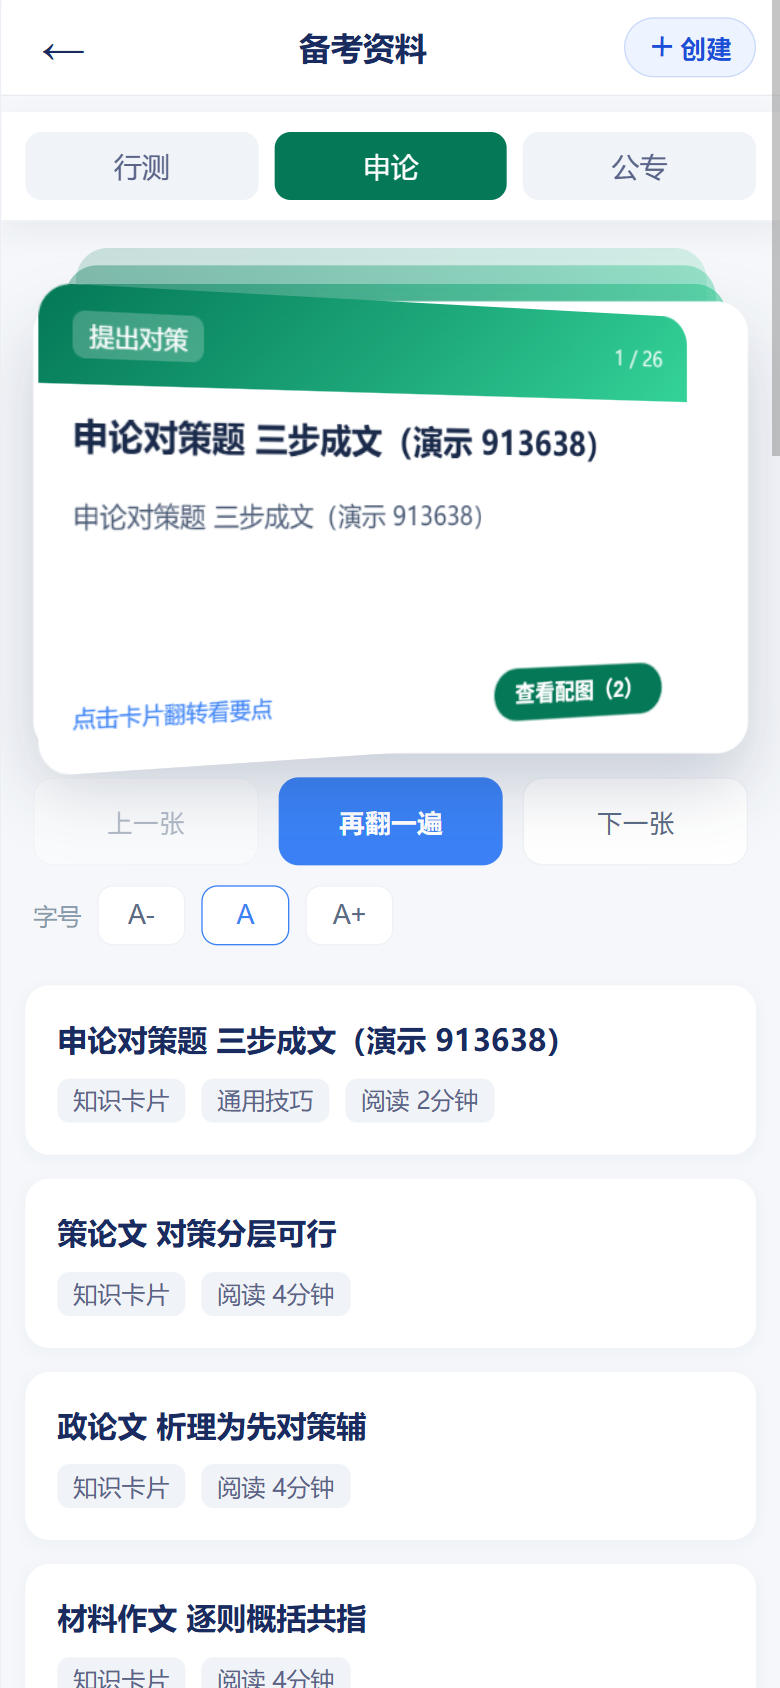
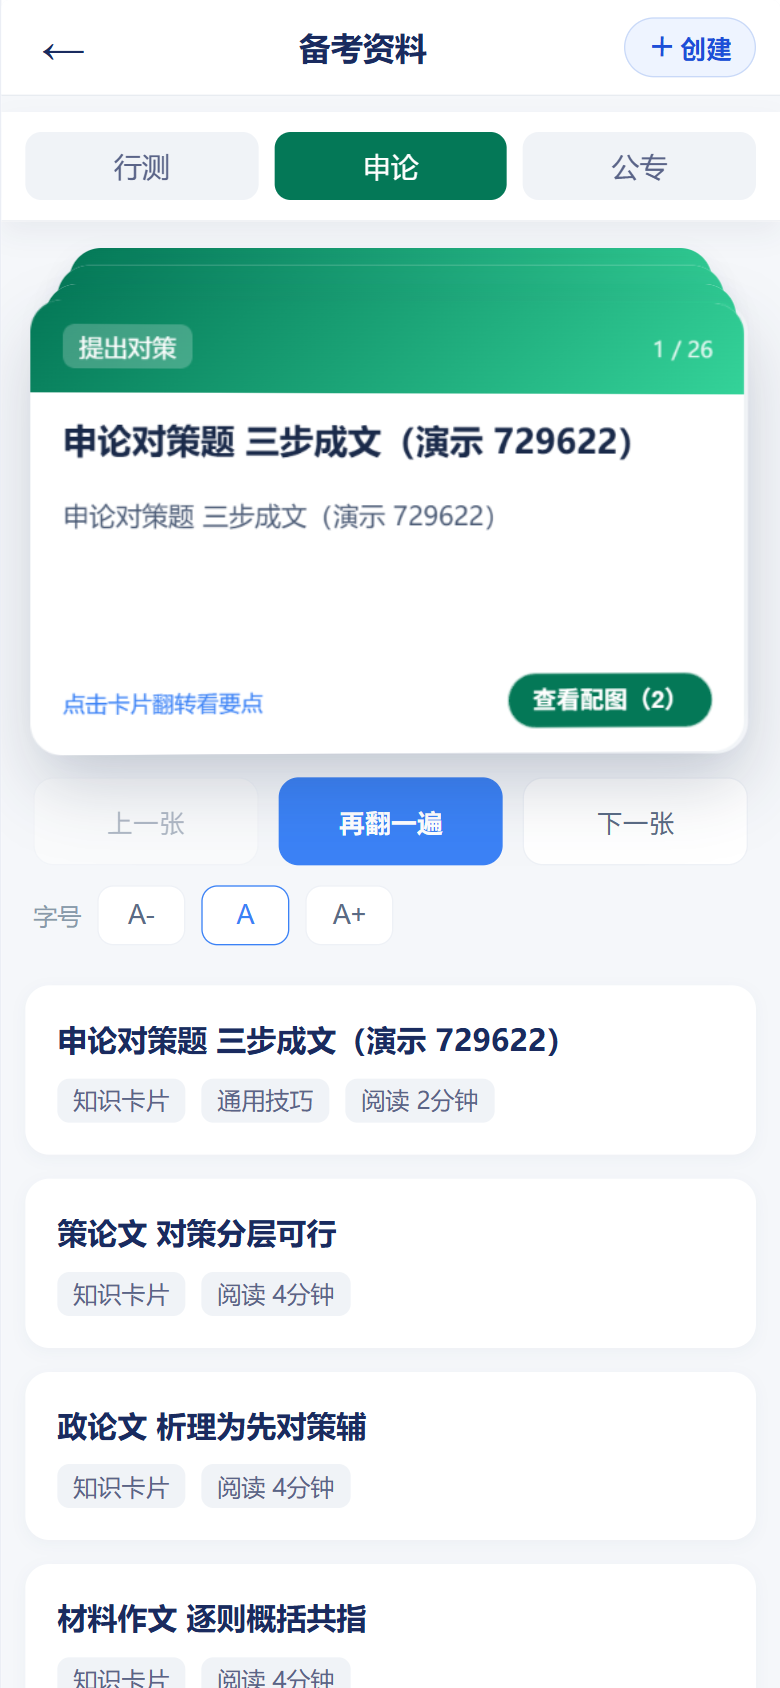
fix(material): 卡片栈改为「后置真卡片 + 容器透明」——彻底去掉翻转/翻页白框，翻转时可见后卡正文

diff --git a/src/views/student/mobile/mobile_materials.vue b/src/views/student/mobile/mobile_materials.vue
@@ -20,15 +20,25 @@
       </div>
     </div>
 
-      <!-- 卡片栈：背景「纸片」只暗示还有多少张（不再画整张白卡），当前卡单独做 3D 翻转 -->
+      <!-- 卡片栈：后面是「真卡片」（翻转时能看到它的文字），顶层卡单独做 3D 翻转 -->
       <section v-if="cardItems.length" class="stack-wrap" :style="stackStyle">
         <div class="stack" :class="{ 'is-flipped': flipped, 'is-leaving': phase === 'leaving', 'is-entering': phase === 'entering' }">
-          <span
-            v-for="n in SLAB_COUNT"
-            :key="'slab-' + n"
-            class="stack-slab"
-            :style="slabStyle(n)"
-          ></span>
+          <!-- 后面的卡：真内容，只露出一条渐变头；容器透明，不会出现白框 -->
+          <div
+            v-for="(c, i) in behindCards"
+            :key="c.id"
+            class="stack-card behind"
+            :style="behindStyle(i)"
+          >
+            <div class="card-face front">
+              <div class="card-head">
+                <span class="tag">{{ c.category || '资料卡' }}</span>
+                <span class="idx">{{ cardIndex + i + 2 }} / {{ cardItems.length }}</span>
+              </div>
+              <h3 class="card-title">{{ c.title }}</h3>
+              <p class="card-text">{{ c.card_front || c.title }}</p>
+            </div>
+          </div>
 
           <div v-if="currentCard" class="stack-card lv0" @click="flip()">
             <div class="card-inner">
@@ -267,8 +277,8 @@ const openDetail = async (m: any) => {
   await loadDetail(m.id);
 };
 
-// ===== 卡片栈：背景纸片 + 单卡 3D 翻转 + 切换 + 字号 =====
-const SLAB_COUNT = 3;
+// ===== 卡片栈：后面卡（真内容）+ 顶层卡 3D 翻转 + 切换 + 字号 =====
+const BEHIND_MAX = 3;
 const cardIndex = ref(0);
 const flipped = ref(false);
 const fontScale = ref(1);
@@ -277,18 +287,26 @@ const cardItems = computed(() =>
   (materials.value as any[]).filter((m) => m.type === 'card' && m.card_front)
 );
 const currentCard = computed(() => cardItems.value[cardIndex.value] || null);
+/** 后面叠着的卡片（真内容，翻转时能看见它的文字） */
+const behindCards = computed(() =>
+  cardItems.value.slice(cardIndex.value + 1, cardIndex.value + 1 + BEHIND_MAX)
+);
 /** 当前卡的全部配图（封面 + 正文附图），用于卡片上的「查看配图」 */
 const currentImages = computed(() => collectCardImages(currentCard.value as any));
 const actLabel = computed(() =>
   currentImages.value.length ? `查看配图（${currentImages.value.length}）` : '查看详情'
 );
 
-/** 层叠纸片：越靠后越窄、越淡，翻页时整体淡出（不会再留白框） */
-const slabStyle = (n: number) => ({
-  top: `${30 - n * 9}px`,
-  left: `${6 + n * 5}px`,
-  right: `${6 + n * 5}px`,
-  opacity: String(0.78 - n * 0.2)
+/**
+ * 后面卡片的定位：只往上露一条（-9px/层）并左右各内缩 6px/层，
+ * 这样它的白色卡身完全被顶层卡盖住 —— 不会再出现「白框」，
+ * 但翻转时顶层卡转开，后面的卡片正文就能看见。
+ */
+const behindStyle = (i: number) => ({
+  top: `${30 - (i + 1) * 9}px`,
+  left: `${(i + 1) * 6}px`,
+  right: `${(i + 1) * 6}px`,
+  zIndex: 8 - i
 });
 
 // 全图查看器（复用电脑端的同一个组件）
@@ -592,18 +610,9 @@ onMounted(fetchMaterials);
   opacity: 0.85;
 }
 
-/* ===== 卡片栈：背景纸片 + 单卡 3D 翻转 ===== */
+/* ===== 卡片栈：后面真卡片 + 顶层卡 3D 翻转 ===== */
 .stack-wrap { padding: 14px 16px 4px; }
-.stack { position: relative; height: 256px; perspective: 900px; perspective-origin: 50% 42%; }
-/* 背景纸片：只露一条渐变边，表示「后面还有几张」，不画整张白卡 */
-.stack-slab {
-  position: absolute;
-  height: 54px;
-  border-radius: 16px 16px 0 0;
-  background: linear-gradient(135deg, var(--c1), var(--c2));
-  pointer-events: none;
-  transition: opacity 0.22s ease, top 0.3s ease, left 0.3s ease, right 0.3s ease;
-}
+.stack { position: relative; height: 256px; }
 .stack-card {
   position: absolute;
   left: 0;
@@ -611,16 +620,23 @@ onMounted(fetchMaterials);
   top: 30px;
   height: 226px;
   border-radius: 16px;
-  background: #fff;
+  /* 容器必须透明：白色由正/反两面提供，否则翻转时会露出这块白底 */
+  background: transparent;
   border: none;
-  box-shadow: 0 10px 24px rgba(26, 42, 74, 0.14);
   transition: transform 0.35s ease, box-shadow 0.35s ease, opacity 0.22s ease;
-  z-index: 2;
+  z-index: 1;
   /* 3D 透视必须挂在「旋转元素的父级」上：card-inner 是 .stack-card 的子元素 */
   perspective: 900px;
   perspective-origin: 50% 45%;
 }
-.stack-card.lv0 { cursor: pointer; }
+/* 后面的卡：不投影、不可点，只作为「翻过去能看到的那张」 */
+.stack-card.behind {
+  z-index: 1;
+  pointer-events: none;
+  box-shadow: none;
+}
+.stack-card.behind .card-face { box-shadow: 0 6px 14px rgba(26, 42, 74, 0.08); }
+.stack-card.lv0 { cursor: pointer; box-shadow: 0 10px 24px rgba(26, 42, 74, 0.14); z-index: 10; }
 .card-inner {
   position: relative;
   width: 100%;
@@ -695,8 +711,10 @@ onMounted(fetchMaterials);
 .stack-wrap { padding: 18px 16px 6px; }
 .stack { z-index: 1; }
 
-/* 修复 2：卡片头部改成科目渐变条，正文区收紧留白 */
-.stack-card { background: #fff; }
+/* 修复 2：卡片头部改成科目渐变条，正文区收紧留白
+   注意：.stack-card 容器必须保持透明（白色由 .card-face 提供），
+   否则翻转时会在原地露出一块白底 —— 这正是之前「白框」的来源。 */
+.stack-card { background: transparent; }
 .card-face { padding: 0; }
 .card-face .card-head {
   margin: 0;
@@ -744,13 +762,8 @@ onMounted(fetchMaterials);
   background: var(--c1);
 }
 
-/* 修复 3：翻页动效（走出 / 进入）——纸片同时淡出，不留白框 */
+/* 修复 3：翻页动效（走出 / 进入）——后面是真卡片，飞走时直接看到它的正文 */
 .stack-card.lv0 { transition: transform 0.2s ease, opacity 0.2s ease; }
-.stack.is-leaving .stack-slab,
-.stack.is-entering .stack-slab {
-  opacity: 0 !important;
-  transition: opacity 0.18s ease;
-}
 .stack.is-leaving .stack-card.lv0 {
   transform: translateX(-118%) rotate(-7deg);
   opacity: 0;

diff --git a/docs/plans/备考资料_四轮卡片栈与配图入口_方案与验收_v1.md b/docs/plans/备考资料_四轮卡片栈与配图入口_方案与验收_v1.md
@@ -12,39 +12,47 @@
 | 1 | 手机端「查看上传图片」的按钮移到卡片上，别让人去下面列表里找 | 配图只能在列表行的「查看详情」里打开；卡片本身没有任何入口 | 卡片正面/背面底部新增「查看配图（N）」按钮（无图时显示「查看详情」），点开直接全屏看图 |
 | 2 | 翻页时有一个白色背景框留在原地；去掉白框，去掉没翻页时的白边，翻页要更好的 3D | ①卡片栈是 **5 张完整白卡** 叠加（`lv1–lv4` 各自 `background:#fff` + `1px` 边框），顶层飞出时底层白卡原地不动 → 白框；②`perspective` 挂在 `.stack` 上，真正旋转的是孙级 `.card-inner`，透视没生效 → 翻转是「平的」 | ①背景改成 **3 片渐变纸片**（只露一条边，不画白卡），卡片去掉边框；②`perspective` 移到 `.stack-card`，背面加 `translateZ(1px)` 避免零厚度重影；③翻页动画期间纸片整体淡出 |
 
-## 2. 关键实现
+## 2. 关键实现（v2 定稿）
+
+第一版把背景换成「渐变纸片」，实测**仍有白框**：真正的白底来自 `.stack-card` 容器自身的
+`background:#fff`（旋转的是它的子元素 `.card-inner`，容器原地不动 → 翻转时露出一整块白）。
+第二版改成「后面放真卡片 + 容器透明」：
 
 ```
-.stack            纸片容器（不再承载透视）
-  .stack-slab ×3  渐变竖条：top 21/12/3px、左右各内缩 6+5n px、opacity 0.58/0.38/0.18
-  .stack-card     唯一真卡：无 border、圆角 16、阴影 0 10px 24px、perspective:900px
-    .card-inner   transform-style:preserve-3d，翻转 0.5s cubic-bezier
-      .card-face.front
-      .card-face.back  rotateY(180deg) translateZ(1px)
+.stack
+  .stack-card.behind ×3   真卡片（正面内容），只按 -9px/层 上移、6px/层 左右内缩
+                          白色卡身被顶层卡完全盖住 → 没有白框；
+                          翻转时顶层卡转开，就能看到后面卡片的正文
+  .stack-card.lv0         唯一可交互卡：background: transparent（白色由 .card-face 提供）
+    .card-inner           preserve-3d + perspective:900px（挂在 .stack-card 上）
+      .card-face.front / .back（背面 rotateY(180deg) translateZ(1px)）
 ```
 
-- 卡片底部：`.card-foot` 改为 flex，左侧「点击卡片翻转看要点」，右侧 `.card-act` 按钮。
-- 按钮点击 `@click.stop`（不触发翻转）：有图 → 打开 `ImageLightbox`（复用电脑端组件，支持缩放/切图/Esc）；
-  无图 → 回退到原有详情弹层（文章类资料仍然走列表）。
-- 翻页：`.is-leaving/.is-entering` 时 `.stack-slab { opacity: 0 }`，配合卡片 0.2s 飞出/进入。
+- 层级：`.stack-card { z-index:1 }`、后面卡 `8-i`、顶层卡 `z-index:10`（第一版曾因 `z-index` 相同导致后面的卡盖住顶层卡）。
+- 卡片底部：`.card-foot` 改 flex，左「点击卡片翻转看要点」右 `.card-act` 按钮；
+  按钮 `@click.stop` 不触发翻转，有图开全图、无图回退详情弹层。
+- 翻页：`.is-leaving/.is-entering` 只动顶层卡，后面的真卡片保持不动 → 飞走时直接看到下一张的正文。
 
 ## 3. 验收
 
-`scripts/verify/mobile_card_stack_shots.mjs`（手机视口 390×844，真实登录态）**9/9 断言通过**：
+`scripts/verify/mobile_card_stack_shots.mjs`（手机视口 390×844 + 真实登录态 + 触摸模拟）**12/12 断言通过**：
 
 | 断言 | 实测值 |
 |---|---|
 | 栈顶是要看的那张卡 | 演示卡标题命中 |
-| 背景只剩 3 片渐变纸片 | `slabs=3`，`background-image=linear-gradient(...)` |
+| 后面叠着 3 张**真卡片**（带正文） | `策论文 对策分层可行` |
+| 顶层卡容器透明（翻转不会露白底） | `rgba(0, 0, 0, 0)` |
+| 后面卡片比顶层窄（白身被遮住，无白框） | behind=345 < top=357 px |
 | 卡片无白边 | `border-top-width = 0px` |
-| 卡片上有「查看配图」 | 按钮文案 `查看配图（2）` |
-| 翻转进入 3D | `matrix3d(-1, 0, 0, 0, …)` |
-| 卡片按钮直接开全图 | 计数 `1 / 2` |
-| 翻页期间纸片淡出 | `opacity 0.086`、`is-leaving=true` |
+| 卡片上有「查看配图」 | `查看配图（2）` |
+| 翻转途中后面卡片文字可见 | 后卡标题非空且可见 |
+| 翻转进入 3D | `matrix3d(...)` |
+| 卡片按钮直接开全图 | `1 / 2` |
+| 翻页期间不留白框 | 顶层卡 `is-leaving`、后卡不动 |
 | 翻页后切到下一张 | 标题变化 |
 
-效果图：`docs/plans/assets/备考资料_四轮验收/01~06.png`
-（默认态 / 翻转中 3D / 背面 / 全图 / 翻页中无白框 / 翻页后）。
+效果图：`docs/plans/assets/备考资料_四轮验收/`（01 默认态、02 翻转中 3D、02b 翻转中后卡可见、
+03 背面、04 全图、05 翻页中无白框、06 翻页后）。
 
 ## 4. 顺带说明
 
